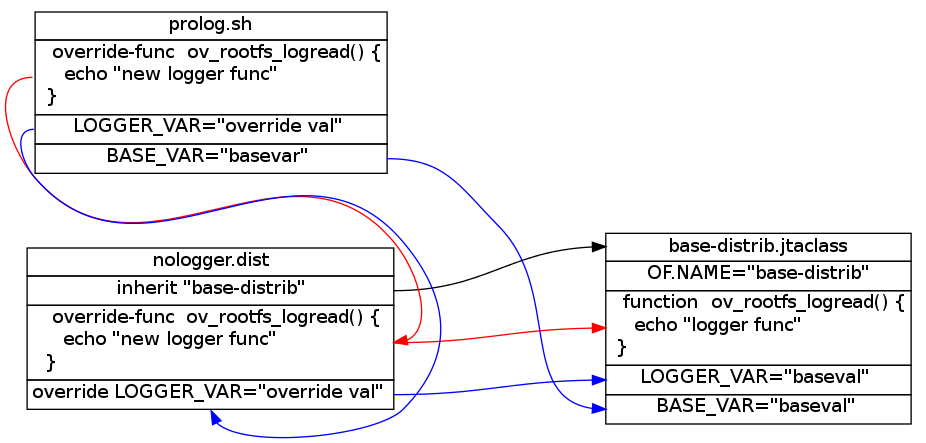
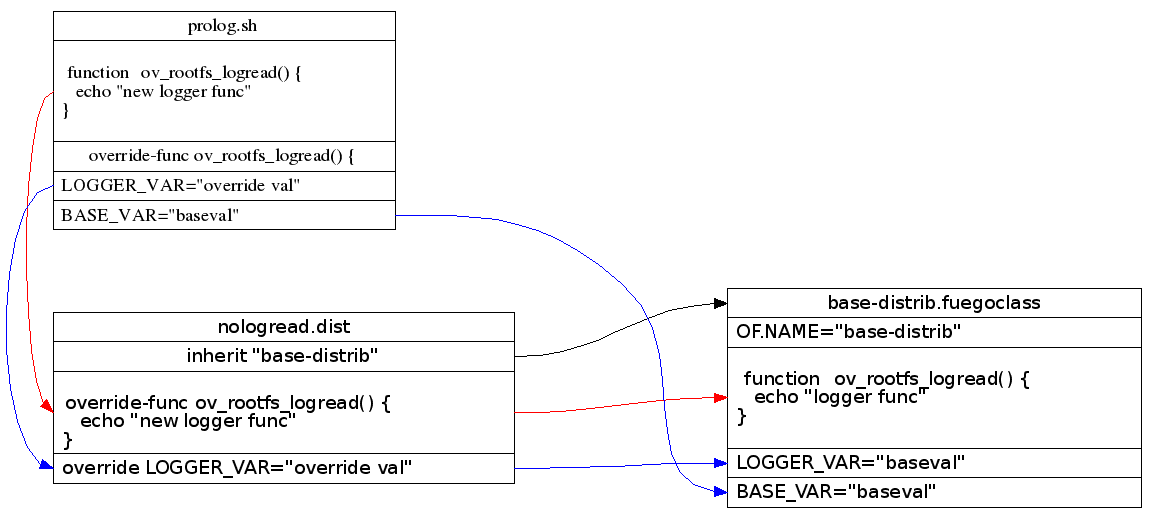
nologger: change to nologread
For the same reasons as in fuego-core, rename nologger to
nologread.

diff --git a/docs/source/overlays.tex b/docs/source/overlays.tex
@@ -41,7 +41,7 @@ and two variables:
 \item \texttt{BASE\_VAR}.
 \end{description}
 
-\textit{nologger.dist} overlay redefines \texttt{ov\_rootfs\_logread} function and \texttt{LOGGER\_VAR} variable. In the end \textit{prolog.sh} contains overriedden function, overridden \texttt{LOGGER\_VAR} variable and vanilla \texttt{BASE\_VAR} variable.
+\textit{nologread.dist} overlay redefines \texttt{ov\_rootfs\_logread} function and \texttt{LOGGER\_VAR} variable. In the end \textit{prolog.sh} contains overriedden function, overridden \texttt{LOGGER\_VAR} variable and vanilla \texttt{BASE\_VAR} variable.
 
 
 \begin{figure}[H]
